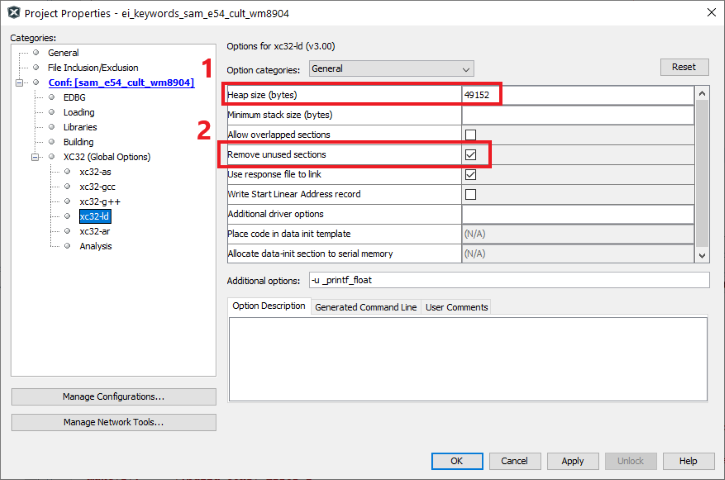
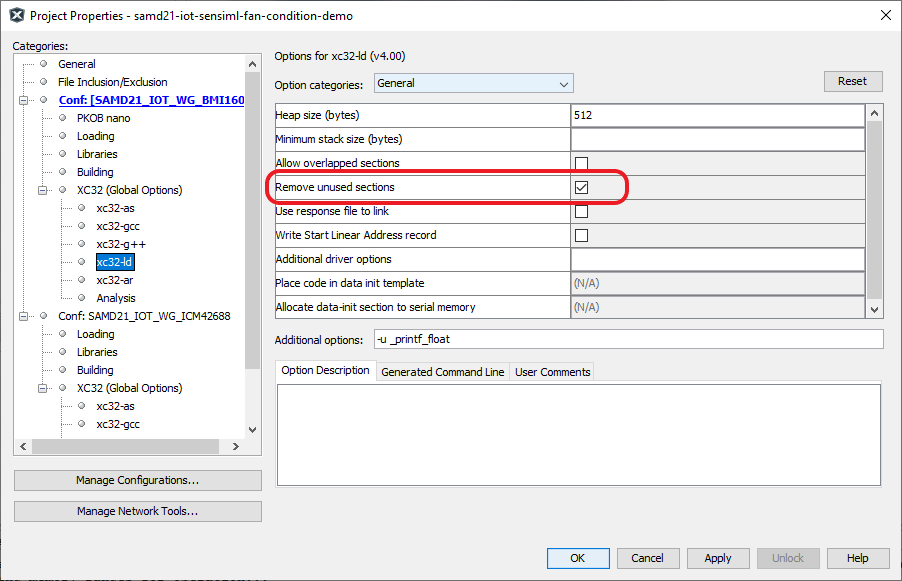
minor README updates
Replace 'remove unused sections' image so the irrelevant heap field is not
highlighted

Fix related text in readme and a grammar error

diff --git a/README.md b/README.md
@@ -44,11 +44,11 @@ The following steps cover compiling the SensiML source code into a static librar
 
    `MPLABX_VERSION=6.00 XC_VERSION=4.00 XC_NUMBER_BITS=32 ./build.sh ATSAME54P20A libsensiml .`
 
-   If MPLAB and/or XC version is unspecified, the program will select the latest
-   versions found on your system in the default install locations. If MPLAB X or
-   the XC compiler are in non-default install locations, you can manually set
-   the corresponding path directly through the `MPLABX_PATH` and `XC_PATH`
-   environment variables.
+   If MPLAB and/or XC versions are unspecified, the program will select the
+   latest versions found on your system in the default install locations. If
+   MPLAB X or the XC compiler are in non-default install locations, you can
+   manually set the corresponding path directly through the `MPLABX_PATH` and
+   `XC_PATH` environment variables.
 
 4. See the [integration instructions](#integration-instructions) below to
    integrate the library with your MPLAB X project.
@@ -90,8 +90,8 @@ steps above, into an MPLAB X project.
    ![Add include directory](assets/include.png)
 
 4. Ensure that the `Remove unused sections` option under *Project Properties* ->
-   *xc32-ld* is enabled (see (2) in the image below); this will eliminate any
-   unused data or functions from the SDK to reclaim device memory.
+   *xc32-ld* is enabled (option is shown in the image below); this will
+   eliminate any unused data or functions from the SDK to reclaim device memory.
 
    ![Add include directory](assets/linker.png)
 
